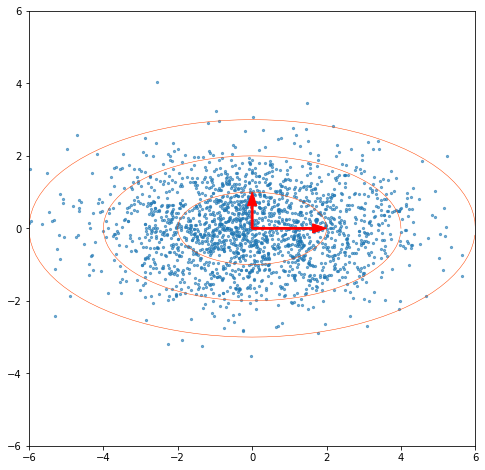
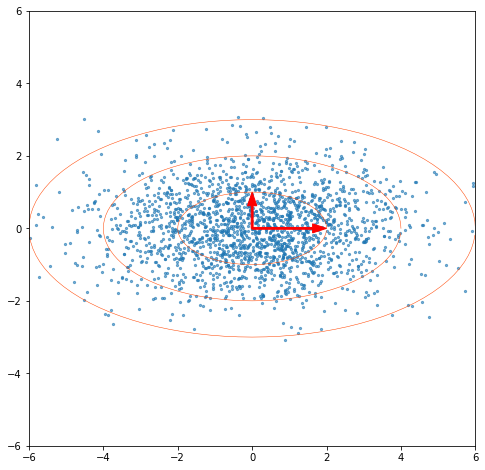
copy edit, fix fig 4

diff --git a/_posts/2022-05-16-pca.md b/_posts/2022-05-16-pca.md
@@ -39,18 +39,19 @@ In the rest of the post, we'll do a quick refresher on PCA and then apply this m
 - We can decompose or factorize any matrix in different ways. Suppose we have a data matrix with $$m$$ rows (observations, samples) and $$n$$ columns (features, predictors). Singular value decomposition factorizes any $$m \times n$$ matrix $$A$$ as: $$A = U \Sigma V^T$$ where (don't worry too much if the bullets below are Greek):
 	- $$U$$ is the $$m \times m$$ orthogonal matrix of the eigenvectors of $$A^TA$$, the **left singular vectors**. They capture all the relationships between the **observation rows**. 
 	- $$V^T$$  is the $$n \times n$$ orthogonal matrix of the eigenvectors of $$AA^T$$, the **right singular vectors**. They capture all the relationships between the **feature columns**.
-	- $$\Sigma$$ is a $$m \times n$$ diagonal dilation (scaling) matrix, the **singular values**. The left and right singular vector matrices are orthogonal unit vectors with norm 1, so they don't contain any scaling data.  The singular values describe the scale of each principal component, connecting the unitary scale of the singular vectors to the true scale of the original data. The singular values are, by convention, sorted by size as you go down the diagonal. This makes the decomposition unique up to changes in sign. The eigenvalues are guaranteed to be real and positive because $$A^TA$$ and $$AA^T$$ are products of matrices by their transpose and therefore positive definite by construction.
-	- The existence of this decomposition proves the first sentence of this bullet: any matrix transformation can be decomposed into a combination of an orthogonal matrix rotoreflection in row space, a dilation scaling each column by a factor, and an orthogonal matrix rotoreflectin in column space. (Projection means mapping into a lower-dimensional subspace which of course we can also do.)
-- The principal components are defined as $$P = U\Sigma$$, so by substitution we can get the original data back as $$A=PV^T$$. Multiplying each side by $$V$$ we get $$P=AV$$. (The inverse of an orthogonal matrix is its transpose.) So matrix $$V$$ is the loadings that transform original feature columns into principal components. Each principal component is a weighted average of the feature columns, where the weights form an orthogonal matrix.[^1] [^2]
+	- $$\Sigma$$ is a $$m \times n$$ diagonal dilation (scaling) matrix, the **singular values**. The left and right singular vector matrices are orthogonal unit vectors with norm 1, so they don't contain any scaling data.  The singular values describe the scale of each principal component, connecting the unitary scale of the singular vectors to the true scale of the original data. The singular values are, by convention, sorted by size as you go down the diagonal. Sorting makes the decomposition unique up to changes in sign. The eigenvalues are guaranteed to be real and positive because $$A^TA$$ and $$AA^T$$ are products of matrices by their transpose and therefore positive definite by construction.
+	- The existence of this decomposition proves the first sentence of this bullet: any matrix transformation can be decomposed into a combination of an orthogonal matrix rotoreflection in row space, a dilation scaling of each column by a factor, and an orthogonal matrix rotoreflection in column space. (Projection means mapping into a lower-dimensional subspace which of course we can also do.)
+- The principal components are defined as $$P = U\Sigma$$, so by substitution we get the original data back as $$A=PV^T$$. Multiplying each side by $$V$$ we get $$P=AV$$. (The inverse of an orthogonal matrix is its transpose.) So matrix $$V$$ is the loadings that transform original feature columns into principal components; and vice versa, $$V^T$$ is the loadings that transform principal component columns inot original feature columns. Each principal component is a weighted average of the feature columns, where the weights form an orthogonal matrix.[^1] [^2]
 - An orthogonal matrix is just a rotation (and optional reflection). PCA is simply a change of basis to a better basis for this data set. What is a good basis? Suppose you are analyzing a spiral galaxy. Some weird basis from a random point in random directions may not be a good basis. A good set of coordinates might be:
    - Set the origin at the center of the galaxy.
    - Set the x-axis along the principal axis which maximizes the variance along the x-axis and minimizes the variance perpendicular to the x-axis (along the remaining axes). 
    - Set the y-axis orthogonal to the y-axis in the direction that maximizes the remaining variance
    - Set the z-axis to the only possible axis orthogonal to the first two, which is the shortest possible axis.
    - When you change the basis with this orthogonal matrix, the basis transformation conserves overall variance and relationships of data (all distances and angles).
-- Each principal component column is a linear combination of the original feature columns. You can think of each principal component as representing a *latent variable*. For instance, if I try to predict a recession using a large dataset of economic activity, I might find principal components corresponding to growth, inflation, monetary conditions, labor markets, consumer demand, investment demand, fiscal policy, and the foreign sector. 
+   - This basis eliminates covariances, makes computation easier, and interpretation more intuitive.
+- Each principal component column is a linear combination of the original feature columns. You can think of each principal component as representing an *independent latent variable*. For instance, if I try to predict a recession using a large dataset of economic activity, I might find principal components corresponding to growth, inflation, monetary conditions, labor markets, consumer demand, investment demand, fiscal policy, and the foreign sector. 
 - Each principal component is *independent*. It has 0 correlation with every other principal component. The slope of a regression line between any two principal components is 0.
-- The labor market principal component might have big loadings on employment growth, wages, big negative loadings on the unemployment rate and jobless claims, and then it must subtract enough of the other features to eliminate any correlation with any other principal component. The labor principal component's singular value would measure its contribution to the variance.
+- The labor market principal component might have big loadings on employment growth and wages, big negative loadings on the unemployment rate and jobless claims, and then it must add and subtract enough of the other features to eliminate any correlation with any other principal component. The labor principal component's singular value would measure its contribution to the variance.
 
 [^1]: $$\Sigma$$ is a diagonal $$m \times n$$ matrix, so if $$m > n$$, there are many 0s below the diagonal. We can get the same $$U\Sigma$$ matrix if we truncate $$m \times m$$ $$U$$ to $$m\times n$$, and truncate $$\Sigma$$ to $$n \times n$$. This is the thin or skinny SVD as opposed to the full SVD. You might ask, if I truncate $$U$$ to $$m \times n$$, does it still capture all the relationships between rows? I would answer that the skinny $$U$$ captures the sensitivity of each row to each principal component, and the $$V^T$$ captures transforming each principal component into the original features, so all the original information is still there. Since we started from a $$m \times n$$ feature matrix $$A$$, we only had 3 true ranks of information in $$U$$ to begin with.
 
@@ -92,9 +93,9 @@ Suppose I take figure 4 and use the principal axis eigenvectors as my basis. In 
 
 ### Optimal PCA truncation
 
-So, when we apply SVD, we rotate our data into a basis aligned with the principal component vectors, where all the features of the data are expressed as a linear combination of independent latent variables. This gives insight into the true rank or dimensionality of our data. For instance, if the true rank of the data is 2, because the other features are linear combinations of the first 2, then we can compress it down to $$m \times 2$$ without loss of information. We can do machine learning on a smaller $$m \times 2$$ matrix which may be faster and yield better results.
+So, when we apply SVD, we rotate our data into a basis aligned with the principal component vectors, where all the features of the data are expressed as a linear combination of independent latent variables. This gives insight into the true rank or dimensionality of our data. For instance, if the true rank of the data is 2, because the other features are linear combinations of the first 2, then we can compress the data down to $$m \times 2$$ without loss of information. We can apply machine learning on a smaller $$m \times 2$$ matrix which may be faster and yield better results.
 
-Let's generate an image with a known rank of 2. To do this, we create $$U$$ and $$V$$ as $$500 \times 2$$ matrices:
+Let's generate an image with a known rank of 2. To do this, we create $$U$$ and $$V$$ as $$500 \times 2$$ matrices.
 
 For U, we choose these 2 principal components (we just want something with interesting variation to make a good test image):
 
@@ -165,9 +166,9 @@ Now let's look at the singular value profiles for the original image, the white 
 
 In Figure 11, it's easy to see in this contrived example where the rank-2 singular values of our noisy image run out of significance and the noise starts to dominate.
 
-  * [ ] In this example, we know the $$\sigma$$ of our noise and number of rows $$m$$. According to the Gavish-Donoho paper, the truncation threshold for a square matrix can be computed as $$\frac{4}{\sqrt{3}}\sqrt m \sigma$$, here approximately 51.6. We select all the singular values larger than the threshold. This correctly truncates the rank to 2. In other words we take our original SVD
+In this example, we know the $$\sigma$$ of our noise and number of rows $$m$$. According to the Gavish-Donoho paper, the truncation threshold for a square matrix can be computed as $$\frac{4}{\sqrt{3}}\sqrt m \sigma$$, here approximately 51.6. We select all the singular values larger than the threshold. This correctly truncates the rank to 2. In other words we take our original SVD
 $$A=U \Sigma V^T$$
-and we keep only the first 2 columns of $$U$$, the top left 2x2 part of $$\Sigma$$, and the first 2 rows of $$V^T$$. We recompute $$A$$ from the truncated SVD matrices of the noisy image as
+and we keep only the first 2 columns of $$U$$, the top left 2x2 part of $$\Sigma$$, and the first 2 rows of $$V^T$$. We then recompute $$A$$ from the truncated SVD matrices of the noisy image as
 $$A_2=U_2 \Sigma_2 V_2^T$$. 
 
 We are still transforming our 500x500 matrix $$\in\mathbb{R}^{500\times 500}$$ into another 500x500 matrix, but now we are projecting it onto a lower-dimensional rank-2 plane subspace of $$\mathbb{R}^{500\times 500}$$.
@@ -181,7 +182,7 @@ We can see that this does a good job of reconstituting our matrix and eliminatin
 	<figcaption>Fig. 12. Image of low-rank approximation of noisy matrix, using optimal truncation of noisy principal components.</figcaption>
 </figure>
 
-Usually, we don't know the $$\sigma$$ of the noise. Gavish-Donoho gives us a way to estimate the threshold based on the median singular value and the aspect ratio of the matrix in equation 11 of the paper. This models at what point we are adding more error than signal to the estimated low-rank matrix. When we apply equation 11 we get almost the identical threshold (51.8 vs. 51.6) and the identical rank-2 approximation.
+Usually, we don't know the $$\sigma$$ of the noise. Gavish-Donoho gives us a way to estimate the threshold based on the median singular value and the aspect ratio of the matrix in equation 11 of the paper. This equation predicts at what point we are adding more error than signal to the estimated low-rank matrix. When we apply equation 11 we get almost the identical threshold (51.8 vs. 51.6) and the identical rank-2 approximation.
 
 Finally, let's apply the same process to a photo, instead of a contrived test image:
 
@@ -219,21 +220,21 @@ We compare our 'optimally-truncated' image to a rank-100 image:
 	<figcaption>Fig. 16. Rank-100 image</figcaption>
 </figure>
 
-The rank-29 compression is acceptable and is close to what we get by eyeballing the elbow in the singular values. But it didn't seem to perform any noise reduction. And adding more dimensions does improve the image. It's pretty clear that by adding more ranks, we get more photographic detail, which isn't true white noise. 
+The rank-29 compression is acceptable and is close to what we get by eyeballing the elbow in the singular values. But it doesn't seem to have performed any noise reduction. Adding more dimensions does improve the image. It's pretty clear that by adding more ranks, we get more photographic detail, which isn't true white noise. 
 
-One possible problem with the Gavish-Donoho threshold is that it's trying to minimize the MSE between a target matrix and the truncated representation, assuming the target is a low rank matrix plus noise. But true optimal truncation depends on what we are going to use low-rank output for, and what our loss function is. Sometimes the low-rank vectors aren't white noise and the information we need to predict is in there. If we're trying to read an inscription on a ring in this photo, we might be better off with full-rank data.
+One possible problem with the Gavish-Donoho threshold is that it's trying to minimize the MSE between a target matrix and the truncated representation, assuming the target is a low rank matrix plus noise. But true optimal truncation depends on what we are going to use low-rank output for, and what our loss function is. Sometimes the low-rank vectors aren't white noise and the information we need to process downstream is in those low-rank vectors. If we're trying to read an inscription on a ring in this photo, we might be better off with full-rank data.
 
-Nevertheless, using the Gavish-Donoho optimal truncation threshold as a starting point and adding additional ranks for a margin of safety seems to capture the essential information for downstream processing like facial recognition or image classification. Even tripling the size of the matrix adds only a modest improvement. 
+Nevertheless, the Gavish-Donoho optimal truncation threshold is a good starting point and adding additional ranks for a margin of safety seems to capture the essential information of this photo for downstream processing like facial recognition or image classification. Even tripling the size of the matrix adds only a modest improvement. 
 
-The Gavish-Donoho optimal truncation method is a systematic way to eyeball the elbow and select an appropriate threshold, and a good starting point, and YMMV.
+TL; DR: The Gavish-Donoho optimal truncation method is a systematic way to eyeball the elbow and select an appropriate threshold, and a good starting point, and YMMV.
 
 ### A Final PCA Example - Statistical Arbitrage ###
 
-Here's a fun application of PCA:
+Here's a fun, and at one time highly profitable, application of PCA:
 - Perform a PCA analysis of daily returns for all the stocks in the S&P for the last year. Don't truncate, keep the full-rank decomposition and PCA component loadings.
 - The next day, at 10 am, take today's intra-day returns and compute the intra-day return on all 500 principal components using the loadings estimated from the last year of data.
 - Using today's intra-day returns for each of the 500 principal components, compute the return you would expect for each individual stock in the S&P. Subtract the estimated return from the actual return.
-- If you rank the stocks by relative performance against the expected return based on the other 499 stocks, then the outperforming stocks either have some stock-specific news, or there is some market pressure like a big buyer, which might be expected to mean-revert. Similarly, the underperforming stocks either have good news, or there is some market pressure like a big seller, which might mean-revert.
+- If you rank the stocks by today's relative performance against the expected return based on today's performance of the other 499 stocks, then the outperforming stocks probably either have some stock-specific good news, or there is some market pressure like a big buyer, which might be expected to mean-revert. Similarly, the underperforming stocks either have bad news, or there is some market pressure like a big seller, which might mean-revert.
 - So, after applying some filter for stocks with market-moving news, a reasonable strategy might be to buy the highest-performing stocks and keep them for a week (or some backtested interval), short the worst-performing stocks and keep them for a week, and hedge any net exposure with S&P futures.
 - That, in its simplest form, is stat arb.
 
